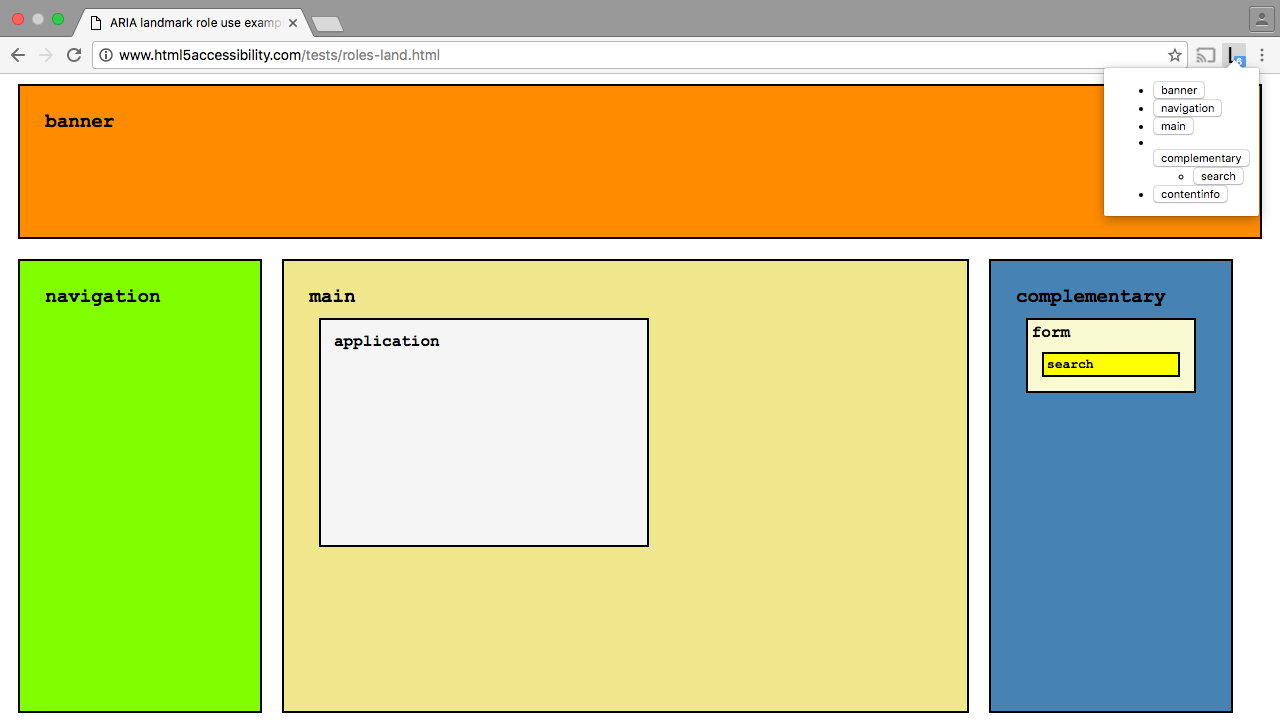
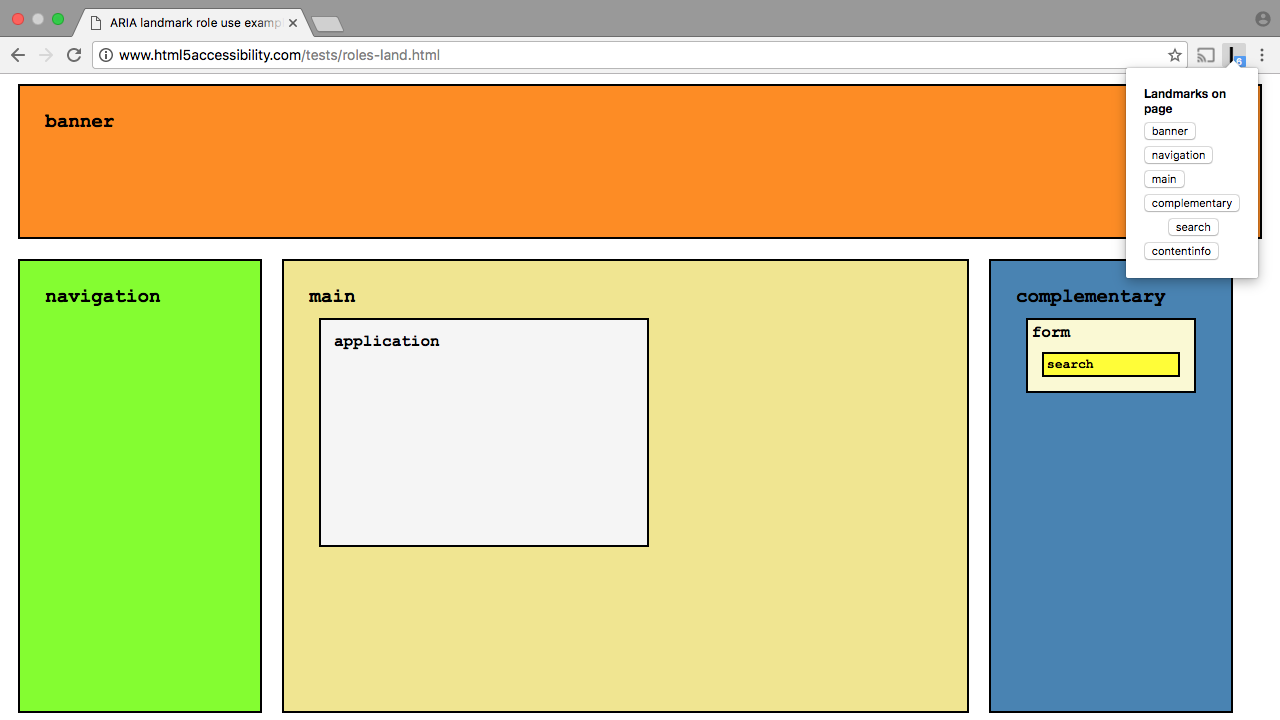
Update screengrabs and README for release

diff --git a/README.md b/README.md
@@ -76,7 +76,7 @@ You can build and run the current code locally as follows.
     The built versions of the extension are placed in the `build/<browser>/` directories and ZIP files for each will be created in the root of the checked-out repository.
 
     Because the process of rasterising the SVG to variously-sized PNGs is slow, the PNGs are cached, so they only need to be re-generated when the SVG changes. You can clean out the cache with `npm run clean:cache`.
-    
+
     You can remove the `build/<browser>/` directories with `npm run clean:firefox`/`chrome`/`all` as with the build scripts above.
 
 4.  To load and use the extension locally in your browser...
@@ -131,7 +131,7 @@ This is a fork of the [original landmarks extension](https://github.com/davidtod
 Changes
 -------
 
--   2.0.4 - ??? of December 2016
+-   2.0.4 - 4th of December 2016
     * Clean up the appearance of the popup.
     * Increase 'momentary' highlight duration to two seconds, from one second.
     * Remove a workaround for a bug in Firefox popup sizing that was fixed in Firefox 50.
